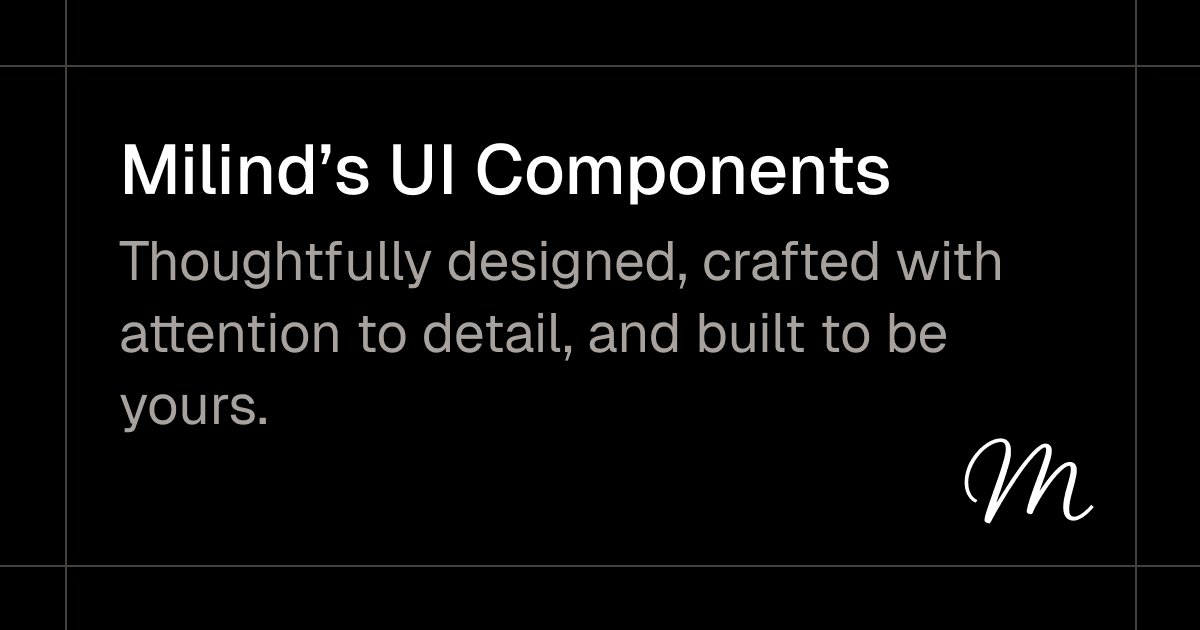
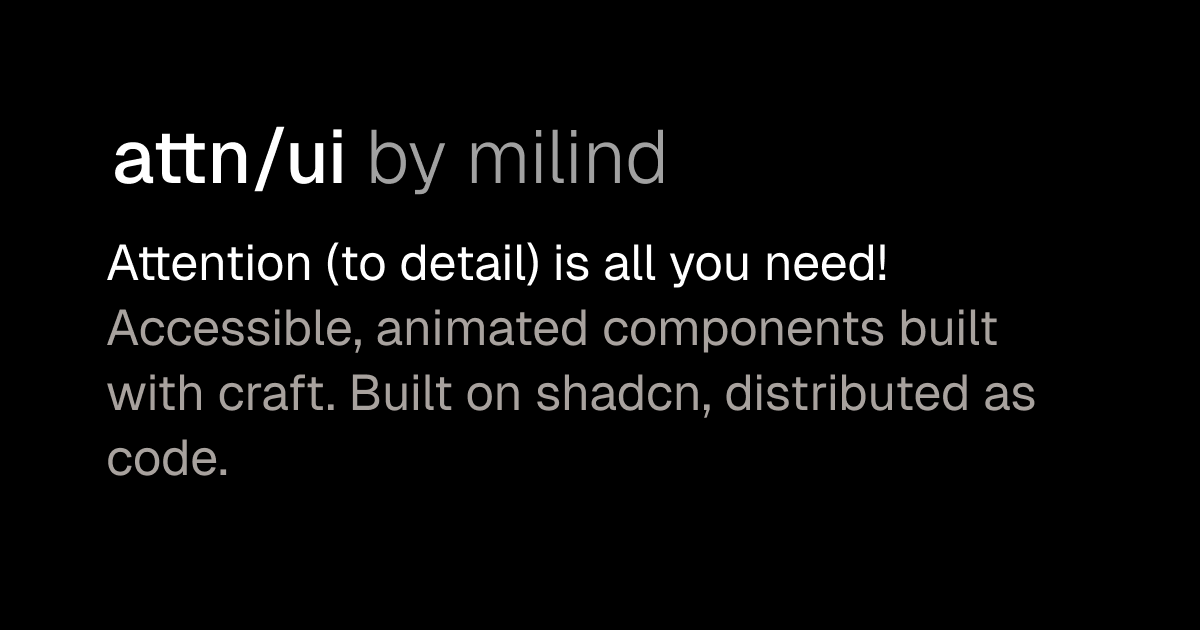
feat: rebrand to attnui

diff --git a/app/layout.tsx b/app/layout.tsx
@@ -6,47 +6,48 @@ import "./globals.css";
 
 export const metadata: Metadata = {
   title: {
-    default: "Milind's UI Components",
-    template: "%s | Milind's UI Components",
+    default: "attn/ui",
+    template: "%s | attn/ui",
   },
   description:
-    "Milind's take on UI components. Thoughtfully designed, crafted with attention to detail, and built to be yours.",
+    "Attention (to detail) is all you need. Accessible, animated components built with craft. Built on shadcn, distributed as code.",
   keywords: [
     "UI components",
     "React components",
+    "accessible components",
+    "animated components",
     "Next.js",
     "shadcn/ui",
-    "open source",
-    "component library",
-    "custom components",
     "TypeScript",
     "Tailwind CSS",
+    "attention to detail",
+    "UI craft",
   ],
-  authors: [{ name: "Milind" }],
-  creator: "Milind",
+  authors: [{ name: "Milind Mishra" }],
+  creator: "Milind Mishra",
   metadataBase: new URL("https://ui.milind.app"),
   openGraph: {
     type: "website",
     locale: "en_US",
     url: "/",
-    title: "Milind's UI Components",
+    title: "attn/ui by Milind Mishra",
     description:
-      "Milind's take on UI components. Thoughtfully designed, crafted with attention to detail, and built to be yours.",
-    siteName: "Milind's UI Components",
+      "Attention (to detail) is all you need. Accessible, animated components built with craft. Built on shadcn, distributed as code.",
+    siteName: "attn/ui",
     images: [
       {
         url: "/og-image.png",
         width: 1200,
         height: 630,
-        alt: "Milind's UI Components",
+        alt: "Attention (to detail) is all you need.",
       },
     ],
   },
   twitter: {
     card: "summary_large_image",
-    title: "Milind's UI Components",
+    title: "attn/ui by Milind Mishra",
     description:
-      "Milind's take on UI components. Thoughtfully designed, crafted with attention to detail, and built to be yours.",
+      "Attention (to detail) is all you need. Accessible, animated components built with craft. Built on shadcn, distributed as code.",
     images: ["/og-image.png"],
     creator: "@milindmishra_",
   },

diff --git a/app/page.tsx b/app/page.tsx
@@ -4,6 +4,7 @@ import { ThemeToggle } from "@/components/theme-toggle";
 import { cn } from "@/lib/utils";
 import { AnimatedAvatarStackExample } from "@/registry/blocks/animated-avatar-stack/animated-avatar-stack-example";
 import { NestedDrawerExample } from "@/registry/blocks/nested-drawer/nested-drawer-example";
+import Link from "next/link";
 
 const COMPONENTS = [
   {
@@ -29,14 +30,22 @@ export default function Home() {
         <div className="absolute top-8 right-4">
           <ThemeToggle />
         </div>
-        <header className="flex flex-col gap-1">
+        <header className="flex flex-col gap-2">
           <h1 className="text-lg font-semibold tracking-tight">
-            Milind&apos;s UI Components
+            attn/ui{" "}
+            <span className="text-muted-foreground font-normal">
+              by{" "}
+              <Link
+                href="https://milindmishra.com"
+                target="_blank"
+                className="hover:text-foreground transition-colors"
+              >
+                milind
+              </Link>
+            </span>
           </h1>
-          <p className="text-muted-foreground">
-            {/* Thoughtfully designed, crafted with attention to detail, and built to
-          be yours. */}
-            Attention (to detail) is all you need!
+          <p className="text-sm text-muted-foreground">
+            Attention (to detail) is all you need.
           </p>
         </header>
       </div>

diff --git a/README.md b/README.md
@@ -1,23 +1,37 @@
-# registry-template
+# attn/ui
 
-You can use the `shadcn` CLI to run your own component registry. Running your own
-component registry allows you to distribute your custom components, hooks, pages, and
-other files to any React project.
+A small, curated collection of accessible, animated UI components.
 
-> [!IMPORTANT]  
-> This template uses Tailwind v4. For Tailwind v3, see [registry-template-v3](https://github.com/shadcn-ui/registry-template-v3).
+Built on the shadcn distribution model: you copy the code, you own it. No package to install, no styles to override, no framework lock-in.
+
+This isn't a design system. It's a public expression of UI craft—what gets included has passed a quality bar for accessibility, motion, and interaction design. Attention to detail is all you need.
 
 ## Getting Started
 
-This is a template for creating a custom registry using Next.js.
+Visit [ui.milind.app](https://ui.milind.app) to browse components and copy the code.
 
-- The template uses a `registry.json` file to define components and their files.
-- The `shadcn build` command is used to build the registry.
-- The registry items are served as static files under `public/r/[name].json`.
-- The template also includes a route handler for serving registry items.
-- Every registry item are compatible with the `shadcn` CLI.
-- We have also added v0 integration using the `Open in v0` api.
+Components are distributed as code, compatible with the `shadcn` CLI:
 
-## Documentation
+```bash
+npx shadcn@latest add https://ui.milind.app/r/nested-drawer.json
+```
 
-Visit the [shadcn documentation](https://ui.shadcn.com/docs/registry) to view the full documentation.
+## Philosophy
+
+Most component libraries optimize for breadth. This one optimizes for depth.
+
+Every component here has been built with attention to accessible markup, smooth motion, and interaction nuance. Components are included only when they meet a quality standard: no half-working animations, no keyboard traps, no motion without purpose.
+
+## Component Acceptance Checklist
+
+- Keyboard navigation and focus management work correctly
+- ARIA patterns are implemented according to WAI-ARIA Authoring Practices
+- Animations are smooth, purposeful, and respect `prefers-reduced-motion`
+- Component can be interrupted mid-animation without visual or state bugs
+- Implementation is composition-friendly and doesn't force a single use case
+- Code is readable and doesn't obscure intent with premature abstraction
+- Component solves a real interaction problem, not just aesthetic novelty
+
+---
+
+Made by Milind Mishra
